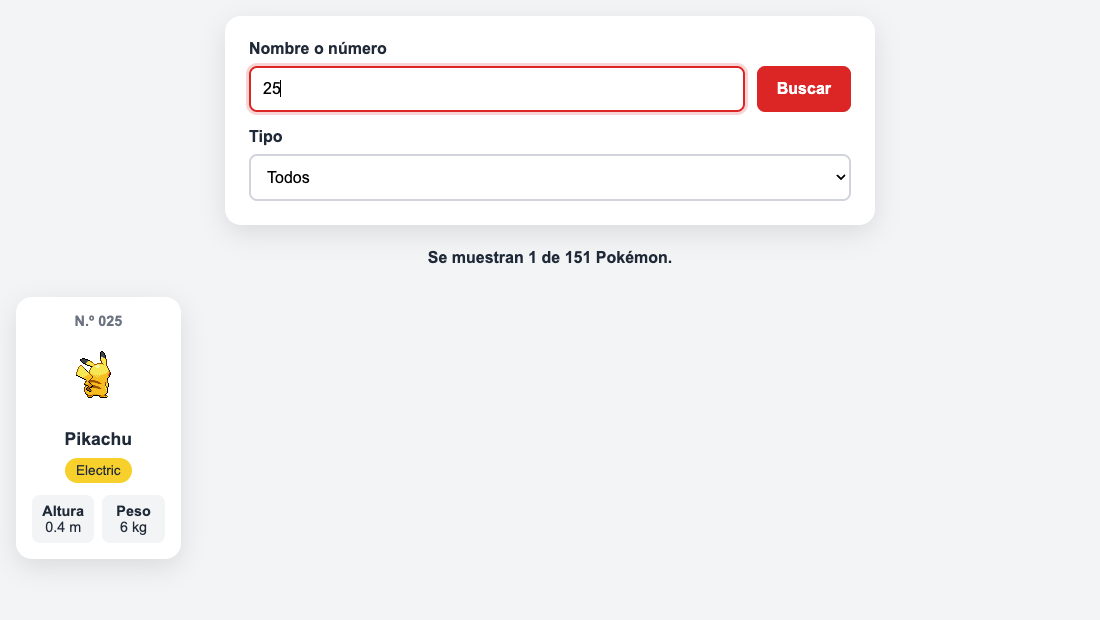
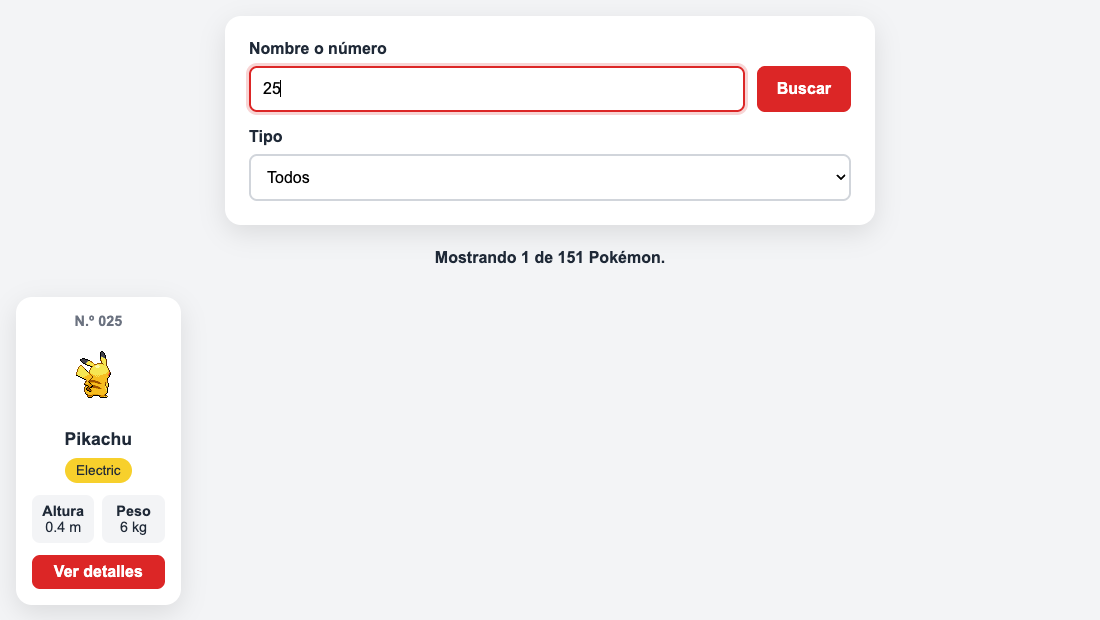
Documenta los estados, las pruebas finales y cómo ejecutarla

Changed region(s): [[0.3709, 0.3984, 0.6182, 0.429], [0.0309, 0.8887, 0.1545, 0.95]]

diff --git a/1er-trimestre/ut1-fundamentos/actividad-01-pokedex/README.md b/1er-trimestre/ut1-fundamentos/actividad-01-pokedex/README.md
@@ -7,6 +7,41 @@
 
 Es una Pokédex con los 151 Pokémon de Kanto hecha con HTML, CSS y JavaScript, con los datos de PokéAPI. Parte de la mini-Pokédex de la práctica guiada.
 
+## Cómo ejecutarla
+
+1. Clona el repositorio: `git clone https://github.com/diegoalegil/pgl-2dam.git`
+2. Abre la carpeta `1er-trimestre/ut1-fundamentos/actividad-01-pokedex` en Visual Studio Code.
+3. Abre `index.html` con Live Server (clic derecho → "Open with Live Server"). Si no la tienes, instala la extensión Live Server en VS Code. Con doble clic no funciona porque `app.js` es un módulo y necesita un servidor.
+4. Pulsa "Cargar Pokémon". Hace falta conexión a internet porque los datos vienen de PokéAPI.
+
+## Estructura del proyecto
+
+```text
+actividad-01-pokedex/
+├── index.html
+├── README.md
+├── assets/
+│   ├── images/
+│   │   └── pokeball.png   (cursor de los botones e icono de la pestaña)
+│   └── readme/            (capturas de este README)
+├── css/
+│   └── style.css
+└── js/
+    ├── app.js             (lo que pasa en la página: carga, tarjetas, filtros y panel)
+    └── Pokemon.js         (la clase con los datos que uso de cada Pokémon)
+```
+
+## Funcionalidades
+
+- Carga los 151 Pokémon de la primera generación desde PokéAPI, todos a la vez con `Promise.all`.
+- Mensajes de estado: listo para empezar, cargando, cargados, sin resultados y error de conexión con botón "Reintentar".
+- Una tarjeta por Pokémon con número, nombre, sprite, tipos (cada uno con su color), altura en metros y peso en kilos.
+- La tarjeta enseña el sprite de espaldas y al pasar el cursor se da la vuelta.
+- Búsqueda por nombre, trozo del nombre o número, mientras escribes o con Enter.
+- Filtro por tipo, que se puede usar junto con la búsqueda.
+- Panel "Ver detalles" con la imagen oficial, la experiencia base, las habilidades y las estadísticas base.
+- Se adapta al móvil.
+
 ## 1. Punto de partida
 
 ### Qué hacía la mini-Pokédex
@@ -24,7 +59,7 @@ actividad-01-pokedex/
     └── app.js
 ```
 
-Estos tres archivos son los de la guía sin cambiar nada. En el mismo commit añadí el `README.md`, `js/Pokemon.js` (vacío de momento) y la carpeta `assets/images/`, que es la estructura que pide la actividad.
+Estos tres archivos son los de la guía sin cambiar nada. La versión de la guía la dejé además sin tocar en la carpeta `1er-trimestre/ut1-fundamentos/mini-pokedex`. En el mismo commit añadí el `README.md`, `js/Pokemon.js` (vacío de momento) y la carpeta `assets/images/`, que es la estructura que pide la actividad.
 
 ### Funcionalidades que ya estaban
 
@@ -69,7 +104,7 @@ En la consola también me salía un `Uncaught (in promise) Error: Could not esta
 ### Cambios respecto al código inicial
 
 - En el HTML metí el título y la explicación dentro de un `<header>`, cambié el título a "Pokédex de Diego" y puse una explicación nueva de cómo se usa.
-- Añadí el botón "Cargar Pokémon" con `type="button"`, para que nunca envíe el formulario, y un desplegable `<select>` para filtrar por tipo, de momento solo con la opción "Todos".
+- Añadí el botón "Cargar Pokémon", fuera del formulario y con `type="button"`, y un desplegable `<select>` para filtrar por tipo, de momento solo con la opción "Todos".
 - El mensaje ahora empieza con `Pulsa "Cargar Pokémon" para empezar.`
 - En el CSS puse la cabecera roja con el título en blanco, el contenedor más ancho (1100 px) para que luego quepan las tarjetas, estilos para el botón nuevo y el desplegable, y una Poké Ball como cursor en los botones. La imagen es la de PokéAPI y está en `assets/images/pokeball.png`.
 - Creé la clase `Pokemon` en `js/Pokemon.js` y la importé en `app.js`. Para poder usar `import` tuve que poner `type="module"` en el `<script>` del HTML.
@@ -106,8 +141,8 @@ const obtenerListaPokemon = async () => {
     peticiones.push(obtenerPokemon(id));
   }
 
-  const listaPokemon = await Promise.all(peticiones);
-  return listaPokemon;
+  const lista = await Promise.all(peticiones);
+  return lista;
 };
 ```
 
@@ -133,7 +168,9 @@ Para probar el error usé Chrome: en la pestaña Red marqué "Inhabilitar caché
 
 ![Mientras cargan los Pokémon](assets/readme/02-cargando.png)
 
-![Los 151 Pokémon cargados](assets/readme/02-cargados.png)
+![Mensaje al terminar de cargar los 151](assets/readme/02-cargados.png)
+
+En esta fase todavía no salían las tarjetas. Lo comprobé con el mensaje y con los `console.log` (151, de Bulbasaur a Mew). Las tarjetas se ven en el apartado 3.
 
 ![Error al cargar sin conexión y botón Reintentar](assets/readme/02-error-conexion.png)
 
@@ -206,7 +243,7 @@ La búsqueda de la guía preguntaba a la API por un solo Pokémon. Ahora que ya 
 
 Todo está en la función `aplicarFiltros`:
 
-1. Coge el texto del buscador con `trim()` y `toLowerCase()`, como en la guía, para que dé igual poner mayúsculas o espacios.
+1. Coge el texto del buscador con `trim()` y `toLowerCase()`, como en la guía, para que dé igual poner mayúsculas o espacios. También cambio el espacio por un guion, para que "mr mime" encuentre a `mr-mime` (en la tarjeta sale "Mr mime").
 2. Con `filter` se queda con los Pokémon que coinciden. Un Pokémon coincide si:
    - el buscador está vacío,
    - o su nombre contiene el texto (`includes`), así funcionan los trozos como "char",
@@ -215,7 +252,7 @@ Todo está en la función `aplicarFiltros`:
 
 La búsqueda se hace mientras escribes (evento `input`) y también al pulsar "Buscar" o Enter (evento `submit`, con `preventDefault()` para que no se recargue la página). Si borras todo vuelven a salir los 151.
 
-Si todavía no se han cargado los Pokémon sale `Primero pulsa "Cargar Pokémon".`
+Si todavía no se han cargado los Pokémon sale "Todavía no hay Pokémon cargados."
 
 ### Filtro por tipo
 
@@ -235,7 +272,7 @@ Por ejemplo, "char" con el tipo Flying solo deja a Charizard.
 
 ### Mensajes
 
-- Si hay resultados sale cuántos se muestran, por ejemplo "Se muestran 3 de 151 Pokémon.".
+- Si hay resultados sale cuántos se muestran, por ejemplo "Mostrando 3 de 151 Pokémon.".
 - Si no hay ninguno sale "No hay ningún Pokémon que coincida con la búsqueda." y no queda ninguna tarjeta.
 
 ### Capturas
@@ -290,4 +327,76 @@ Como los tipos ahora salen en la tarjeta y en el panel, saqué el código que lo
 ![Después de cerrar el panel](assets/readme/05-detalles-cerrado.png)
 
 **Commit de la fase:** [`26a15ba`](https://github.com/diegoalegil/pgl-2dam/commit/26a15ba61e1d256fef7c6c246bf84577778dc57a)
+
+## 6. Gestión de estados y errores
+
+La aplicación tiene estos estados y cada uno tiene su mensaje en el párrafo `#mensaje`, que tiene `aria-live="polite"` para que los lectores de pantalla lo lean:
+
+| Estado | Qué sale |
+|---|---|
+| Preparada para empezar | `Pulsa "Cargar Pokémon" para empezar.` |
+| Cargando | "Cargando Pokémon..." y el botón desactivado |
+| Cargada | "Se han cargado 151 Pokémon." y el botón desaparece |
+| Búsqueda sin resultados | "No hay ningún Pokémon que coincida con la búsqueda." y ninguna tarjeta |
+| Error de conexión | "No se han podido cargar los Pokémon. Revisa tu conexión a internet e inténtalo de nuevo." y el botón pasa a "Reintentar" |
+
+Si se busca antes de cargar sale "Todavía no hay Pokémon cargados."
+
+Los errores se recogen con `try` y `catch`. En la página nunca sale el error técnico: el usuario ve una frase que se entiende y el error de verdad (`TypeError: Failed to fetch`) solo sale en la consola con `console.error`. Como el botón se vuelve a activar en el `finally`, la aplicación no se queda bloqueada y se puede reintentar.
+
+Capturas de los estados:
+
+![Cargando](assets/readme/02-cargando.png)
+
+![Error de conexión con Reintentar](assets/readme/02-error-conexion.png)
+
+![Búsqueda sin resultados](assets/readme/04-sin-resultados.png)
+
+## 7. Pruebas finales
+
+| N.º | Prueba | Resultado esperado | ¿Superada? |
+|---|---|---|---|
+| 1 | Abrir la aplicación | Se muestra la interfaz inicial sin errores | Sí |
+| 2 | Iniciar la carga | Aparece un mensaje de carga | Sí |
+| 3 | Finalizar la consulta | Se muestran 151 tarjetas | Sí |
+| 4 | Buscar `pikachu` | Solo aparece Pikachu | Sí |
+| 5 | Buscar `25` | Solo aparece Pikachu | Sí |
+| 6 | Buscar `char` | Aparecen los Pokémon cuyo nombre contiene ese fragmento | Sí (Charmander, Charmeleon y Charizard) |
+| 7 | Buscar un nombre inexistente | Se muestra un mensaje sin errores técnicos | Sí |
+| 8 | Vaciar la búsqueda | Vuelven a mostrarse todos los Pokémon | Sí |
+| 9 | Seleccionar el tipo `fire` | Solo aparecen Pokémon de tipo fuego | Sí (12) |
+| 10 | Combinar texto y tipo | Se cumplen simultáneamente ambos filtros | Sí ("char" + Flying solo deja a Charizard) |
+| 11 | Colocar el cursor sobre una tarjeta | El sprite cambia de espalda a frente | Sí, y sin ninguna petición nueva |
+| 12 | Retirar el cursor | Vuelve a mostrarse el sprite trasero | Sí |
+| 13 | Pulsar `Ver detalles` | Aparece toda la información ampliada solicitada | Sí |
+| 14 | Cerrar los detalles | El panel desaparece sin recargar la página | Sí (con el botón, con Esc o pinchando fuera) |
+| 15 | Simular un fallo de conexión | Aparece un mensaje y se puede reintentar | Sí |
+| 16 | Reducir el ancho de la ventana | Las tarjetas se adaptan sin desbordamientos | Sí (6 columnas en el ordenador, 4 en tablet, 2 en el móvil y 1 en pantallas muy pequeñas) |
+
+### Pruebas de la guía después de los cambios
+
+También volví a pasar las pruebas de la práctica guiada. Ahora la búsqueda filtra la colección en vez de preguntar a la API, así que dos cambian a propósito. Además, `mr-mime` ahora sale sin guion por `formatearTexto` (apartado 3):
+
+| Entrada | Antes (guía) | Ahora |
+|---|---|---|
+| `pikachu`, `PIKACHU`, `   pikachu   `, `25` | Pikachu | Pikachu |
+| `charizard` | Dos tipos | Dos tipos |
+| `mr-mime` | "Mr-Mime" con guion | "Mr mime" |
+| Campo vacío o solo espacios | Aviso "Introduce un nombre o número." | Salen los 151, porque el enunciado pide que al vaciar la búsqueda vuelvan todos |
+| `pokemon-inventado` | "Pokémon no encontrado." | "No hay ningún Pokémon que coincida con la búsqueda." |
+
+### Correcciones después de las pruebas
+
+- En la consola salía un error 404 de `favicon.ico` porque la página no tenía icono. Lo arreglé poniendo la Poké Ball como icono de la pestaña y ya no sale ningún error en el uso normal. Commit: [`9d48637`](https://github.com/diegoalegil/pgl-2dam/commit/9d48637b736719f0e4d2c07ec14cec37d590b55e)
+
+Al repasarlo todo encontré algunas cosas más y las arreglé en el commit [`e9d33f8`](https://github.com/diegoalegil/pgl-2dam/commit/e9d33f82dd8044c232c1bf5dbd0f59e863482cc2):
+
+- Buscar "mr mime" o "nidoran f" como sale en la tarjeta no encontraba nada, porque en la API llevan guion. Ahora el espacio se cambia por un guion.
+- Si escribías algo antes de cargar, al cargar salían los 151 con el texto todavía en el buscador. Ahora el buscador se vacía al cargar.
+- Si buscabas antes de cargar salía `Primero pulsa "Cargar Pokémon".` aunque ya estuviera cargando o hubiera fallado. Ahora sale "Todavía no hay Pokémon cargados.", que vale para todos los casos.
+- Con un solo resultado salía "Se muestran 1 de 151 Pokémon.", que suena mal. Ahora sale "Mostrando 1 de 151 Pokémon.".
+- En el móvil, si bajabas en el panel de detalles y abrías otro Pokémon, el nuevo salía ya bajado. Ahora siempre se abre arriba (`panelDetalles.scrollTop = 0`).
+- Algunos colores de tipo eran muy claros para el texto blanco (fire, grass, water...). Los oscurecí un poco para que se lean mejor.
+- La constante `URL_API` no se usaba: `obtenerPokemon` volvía a escribir la URL entera. Ahora la usa.
+- Dentro de `obtenerListaPokemon` había una variable que se llamaba igual que la lista de fuera (`listaPokemon`) y liaba al leerlo. La cambié a `lista`.
 
